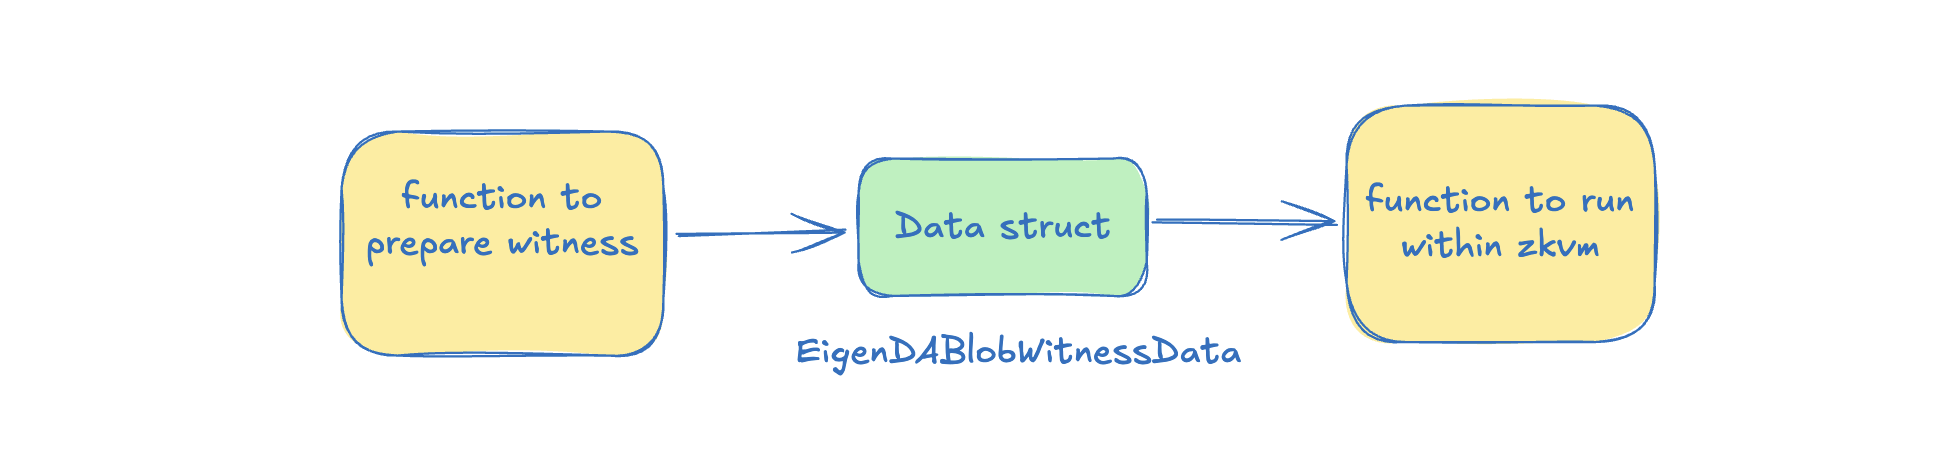
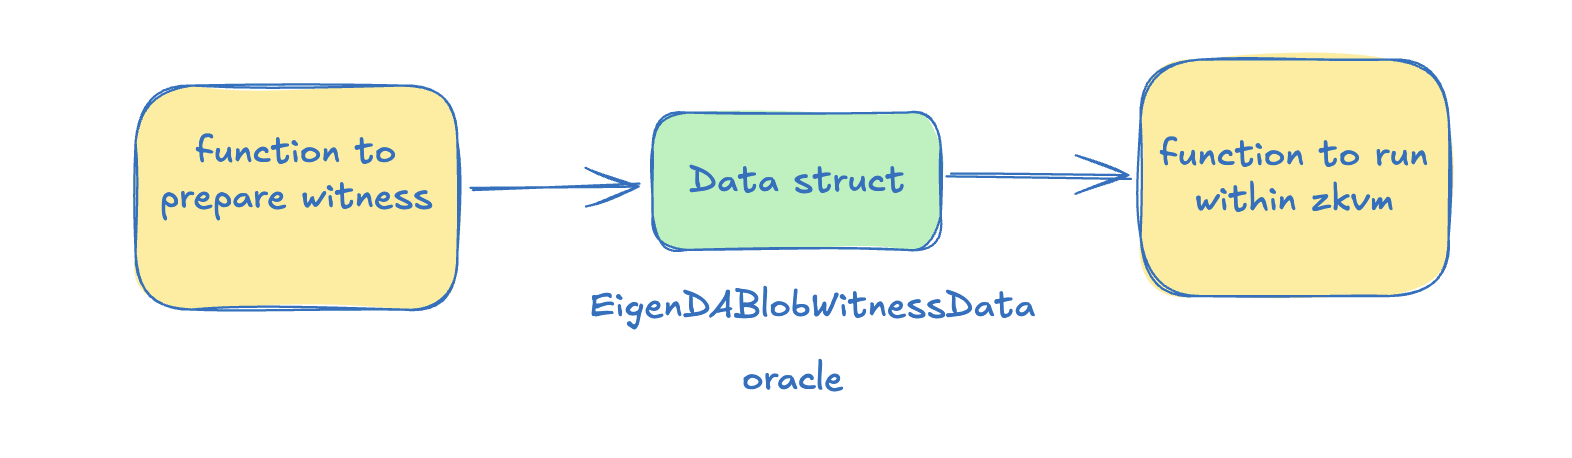
fix comments

Changed region(s): [[0.0623, 0.0917, 0.9351, 0.7948], [0.4676, 0.7948, 0.5611, 0.8559]]

diff --git a/example/preloader/README.md b/example/preloader/README.md
@@ -45,12 +45,10 @@ just run-preloader .devnet.env steel false
 ```
 # Workflow and Data Structures
 
-At the high level, a zkVM secure integration uses hokulea+kona derivation twice. At the first run, it creates a data structure called `EigenDABlobWitnessData`.
-In the second run, it feeds `EigenDABlobWitnessData` as a data inputs to the hokulea+kona derivation pipeline; but this time the execution of the derivation on
-the data is executed in the context of zkVM.
+At the high level, a zkVM secure integration uses hokulea+kona derivation twice. At the first run, it creates a data structure called `EigenDABlobWitnessData` and `oracle` for kona. In the second run, it feeds `EigenDABlobWitnessData` and `oracle` as a data inputs to the hokulea+kona derivation pipeline; but this time the execution of the derivation on the data is executed in the context of zkVM.
 
 <div align="center">
-    <img src="../../assets/zkVM-integration-basic-workflow.png" width="50%"/>
+    <img src="../../assets/zkVM-integration-basic-workflow.png"/>
 </div>
 
 ## Witness Generation
@@ -64,7 +62,7 @@ Hokulea provides an implementation called `OracleEigenDAWitnessProvider` that is
 containing all the necessary information above. Running the run_fp_client produces two data structure: an key-value oracle containing all the preimage required by kona, and `EigenDABlobWitnessData` containing most of information required by EigenDA data derivation.
 
 <div align="center">
-    <img src="../../assets/zkVM-witness-generation.png" width="50%"/>
+    <img src="../../assets/zkVM-witness-generation.png"/>
 </div>
 
 The next step after the first run is to gather the DA cert validity proof, whose most important member is the canoe proof. See the canoe [crate](../../canoe/) 
@@ -91,7 +89,7 @@ It is crucial to make sure all the blob in the PreloadedEigenDABlobProvider is c
 - kzg commitment within the eigenda cert is binding to the eigenda blob
 
 <div align="center">
-    <img src="../../assets/zkVM-executing-derivation.png" width="50%"/>
+    <img src="../../assets/zkVM-executing-derivation.png"/>
 </div>
 
 Hokulea defines a transformation function to convert `EigenDABlobWitnessData` into `PreloadedEigenDABlobProvider`, and the transformation contains the two all the 
